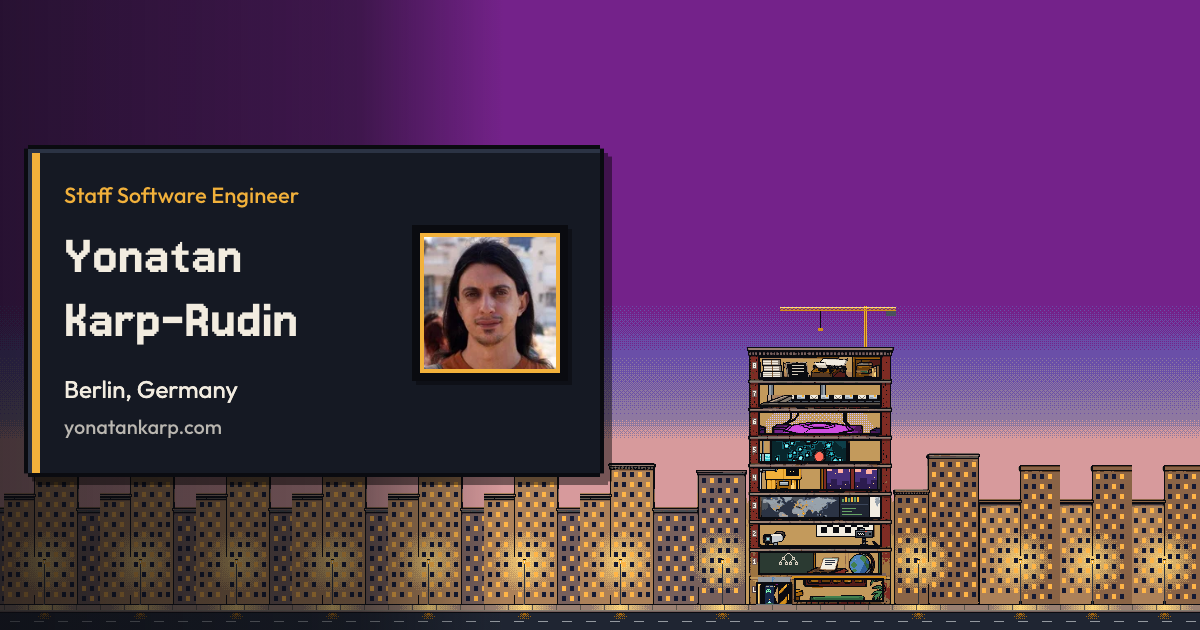
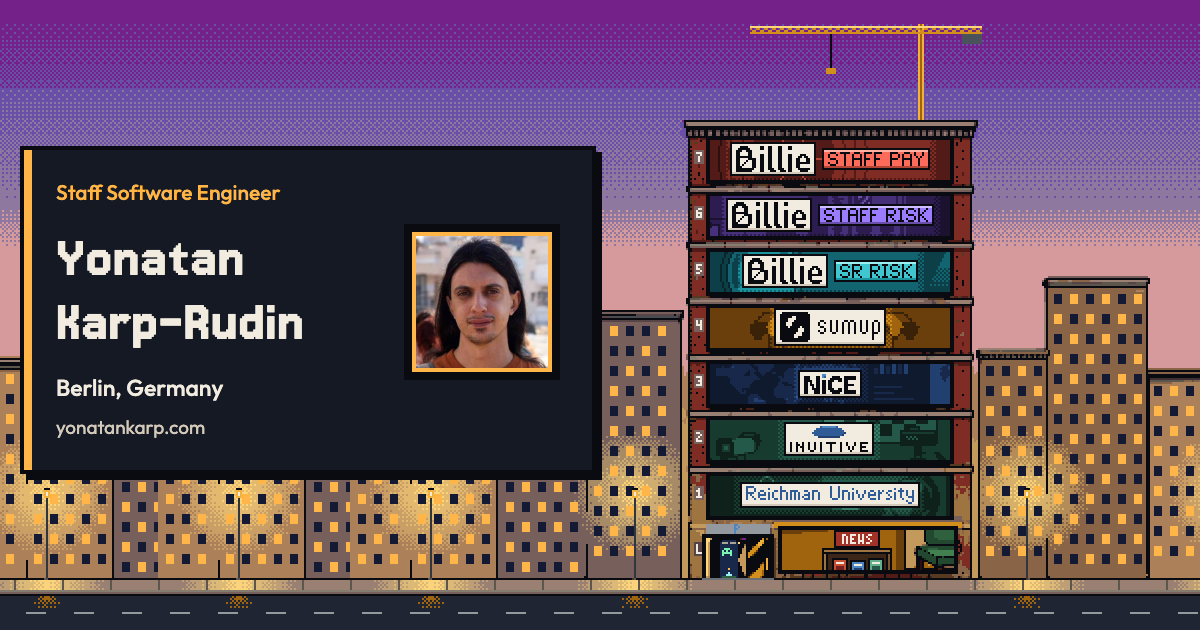
fix: repair the CV PDF spacing and refresh the share image (#171)
* fix(seo): cut the robots.txt comment to one line

* fix(cv): turn off font hinting and embed static Outfit in the PDF

Chromium on Linux, where the deploy prints the PDF, rounded glyph advances to
whole pixels under hinting, which is what misplaced the letters. Static Outfit
instances, only loaded for print, replace the variable font's Type 3 subsets.

* fix(seo): redraw the share card from the current building

The card still showed the tower with a floor 8. It now uses frame 0 of the dusk
exterior.png at 2x, with the company signs, and the same card on the left.

diff --git a/assets/css/custom.css b/assets/css/custom.css
@@ -598,11 +598,17 @@ html[data-time="night"] .px-skin { --scene: url(../building/pixel/backdrop-night
   .px-bar__name { height: 44px; padding: 0 14px; font-size: 24px; }
 }
 
+/* Chromium embeds a variable font in a PDF as Type 3, so print sets the CV in static instances of outfit-latin.woff2.
+   Only the print rule below names this family, so no screen downloads it; a browser's own print falls back to Outfit until they load. */
+@font-face { font-family: 'Outfit Print'; font-style: normal; font-weight: 400; font-display: swap; src: url(../fonts/outfit-400.woff2) format('woff2'); }
+@font-face { font-family: 'Outfit Print'; font-style: normal; font-weight: 500; font-display: swap; src: url(../fonts/outfit-500.woff2) format('woff2'); }
+@font-face { font-family: 'Outfit Print'; font-style: normal; font-weight: 600; font-display: swap; src: url(../fonts/outfit-600.woff2) format('woff2'); }
+@font-face { font-family: 'Outfit Print'; font-style: normal; font-weight: 700; font-display: swap; src: url(../fonts/outfit-700.woff2) format('woff2'); }
 @media print {
   .px-bar { display: none; }
   .cv-page {
     --px-text: #111; --px-soft: #333; --panel-hi: #111; --well: #fff; --amber: #e8962b; --px: 2px;
-    background: #fff; color: #111; font-size: 9.4pt; line-height: 1.35;
+    background: #fff; color: #111; font-family: 'Outfit Print', 'Outfit', system-ui, sans-serif; font-size: 9.4pt; line-height: 1.35;
     -webkit-print-color-adjust: exact; print-color-adjust: exact;
   }
   :root:has(.cv-page) { background: #fff; color-scheme: light; }   /* else the page margins print in the dark scheme */
@@ -626,7 +632,7 @@ html[data-time="night"] .px-skin { --scene: url(../building/pixel/backdrop-night
   .cv-role-item { grid-template-columns: minmax(0, 1fr); padding: 3px 0; break-inside: avoid; }
   .cv-role-item + .cv-role-item { border-top-width: 1px; border-top-color: #bbb; }
   .cv-floor { display: none; }   /* the floor badges link into the building; on paper they read as stray numbers */
-  .cv-page h3 { font-size: 10.6pt; }
+  .cv-page h3 { font-family: 'Outfit Print', 'Outfit', system-ui, sans-serif; font-size: 10.6pt; }
   .cv-role-item__top span { font-size: 8.6pt; }
   .cv-sub { margin: 0 0 3px; font-size: 8.8pt; }
   .cv-page .cv-sub { color: #111; }

diff --git a/scripts/generate-cv-pdf.js b/scripts/generate-cv-pdf.js
@@ -8,7 +8,7 @@ const rootDir = path.resolve(__dirname, "..");
 const publicDir = path.join(rootDir, "public");
 const cvPath = path.join(publicDir, "cv", "index.html");
 const pdfPath = path.join(publicDir, "yonatan-karp-rudin-cv.pdf");   // the homepage's Download CV
-const CV_FONTS = ["Jersey 15", "Outfit"];   // the faces the printed CV sets its text in; compared lowercased, as the minifier writes them
+const CV_FONTS = ["Jersey 15", "Outfit Print"];   // the faces the printed CV sets its text in; compared lowercased, as the minifier writes them
 
 // Chromium only writes Title, so Author, Subject and the rest are added after printing.
 async function setMetadata() {
@@ -96,7 +96,10 @@ function createStaticServer() {
 
   const { chromium } = await loadPlaywright();
   const { server, baseUrl } = await createStaticServer();
-  const browser = await chromium.launch(process.env.PLAYWRIGHT_CHANNEL ? { channel: process.env.PLAYWRIGHT_CHANNEL } : {});   // e.g. chrome, where Playwright's own browser is not installed
+  const browser = await chromium.launch({
+    args: ["--font-render-hinting=none"],   // on Linux, where the deploy prints this, hinting rounds glyph advances to whole pixels: "tr ansaction"
+    ...(process.env.PLAYWRIGHT_CHANNEL && { channel: process.env.PLAYWRIGHT_CHANNEL }),   // e.g. chrome, where Playwright's own browser is not installed
+  });
 
   try {
     const page = await browser.newPage({ viewport: { width: 1240, height: 1754 } });
